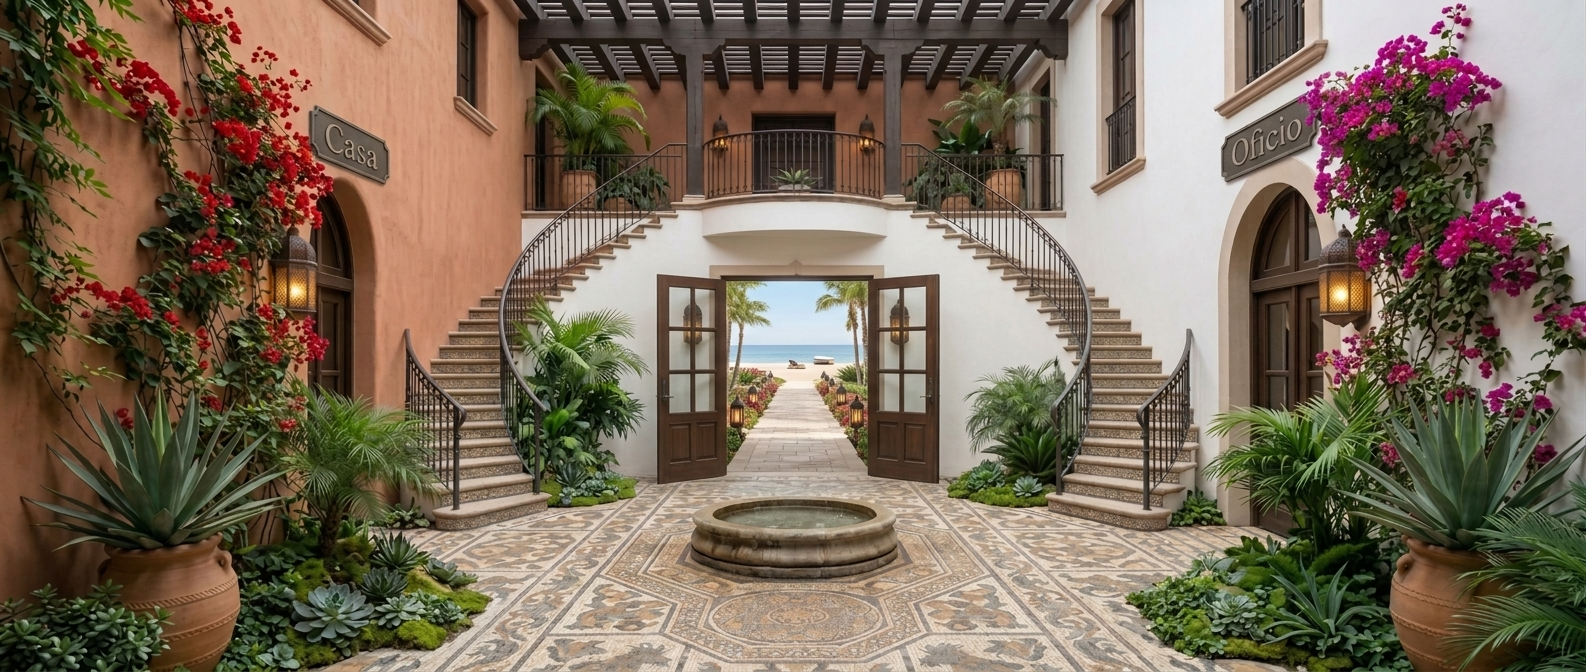
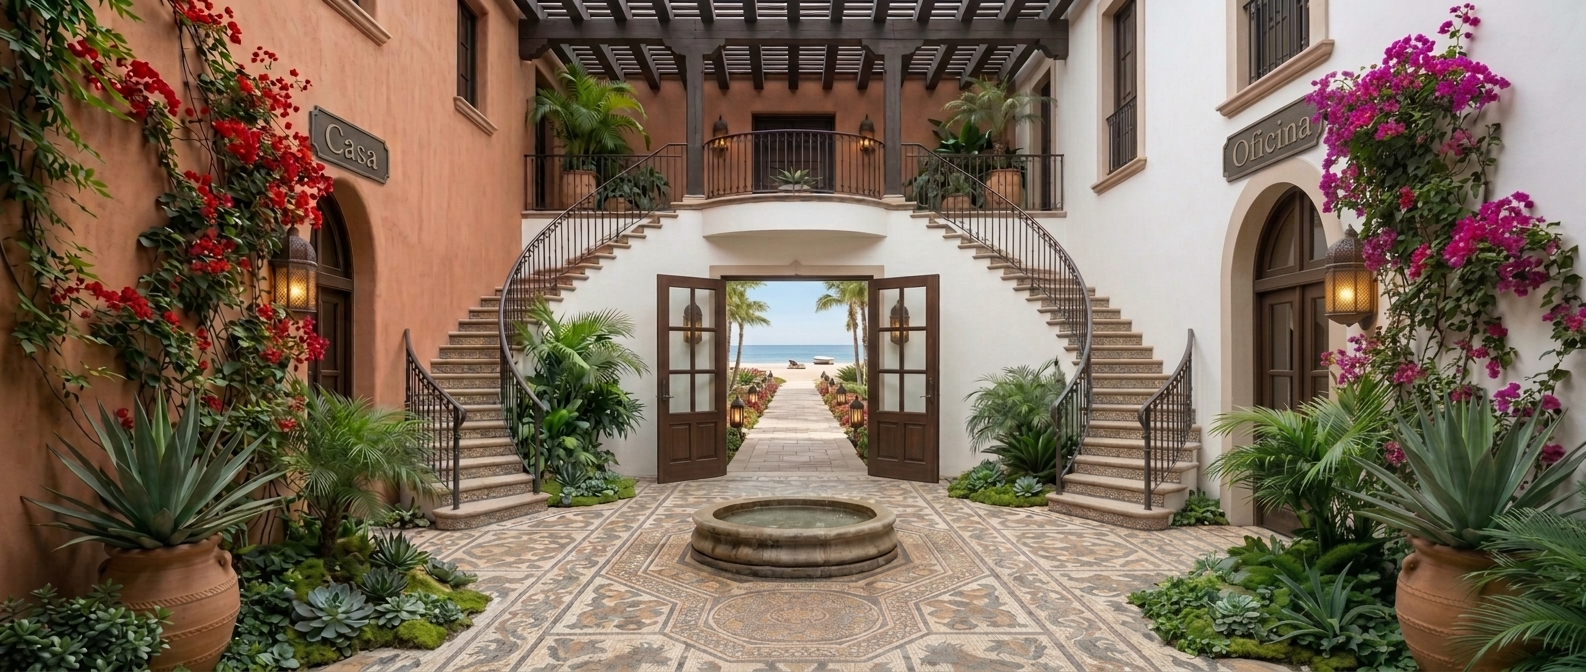
Patio: lock hotspots to the archways, drop the centre doors
- Re-pull the courtyard photo with corrected "Casa" / "Oficina" signs.
- Put the photo in an aspect-ratio .frame so overlays are positioned in
  percentages of the image itself — the two archway hotspots now stay
  pinned to the doorways at any screen size.
- Remove the centred stacked-door fallback entirely; the only controls
  are the two transparent archway hotspots with their warm hover bloom.

diff --git a/redsquatch-site/app/(auth)/login-interceptor/patio.module.css b/redsquatch-site/app/(auth)/login-interceptor/patio.module.css
@@ -1,9 +1,13 @@
 /* ═══════════════════════════════════════════════════════════════════════════
-   Patio — the post-login courtyard. One decision: Casa (left → /hs) or
-   Oficina (right → /ws). The "Casa" / "Oficina" signs are carved into the photo
-   itself, so on a wide screen the controls are just transparent hotspots over
-   the two archways, lit by a warm bloom on hover. Narrow screens can't hold
-   the whole panorama, so they fall back to two stacked labelled doors.
+   Patio — the post-login courtyard. One decision, two archways:
+   Casa (left → /hs) or Oficina (right → /ws). The signs are carved into the
+   photo, so the only controls are two transparent hotspots sitting exactly
+   over the archways, lit by a warm bloom on hover/focus.
+
+   The photo lives in `.frame`, an element with the image's exact aspect ratio
+   that is letterboxed inside the viewport. Every overlay is a child of
+   `.frame` and positioned in percentages of the *image*, so the hotspots
+   stay locked to the archways at any screen size.
    Scoped module; nothing here touches the global theme.
    ═══════════════════════════════════════════════════════════════════════════ */
 
@@ -12,200 +16,126 @@
   inset: 0;
   overflow: hidden;
   isolation: isolate;
-  background-color: #b5895f;   /* warm adobe fills any letterbox around the pano */
+  display: flex;
+  align-items: center;
+  justify-content: center;
+  background-color: #b5895f;   /* warm adobe fills the letterbox around the pano */
   font-family: Georgia, "Times New Roman", serif;
 }
 
-.backdrop {
-  position: absolute;
-  inset: 0;
-  background-image: url("/images/patio-courtyard.jpg");
-  background-repeat: no-repeat;
-  background-position: center;
-  background-size: cover;       /* mobile: fill screen (sides crop) */
-  z-index: 0;
-}
-@media (min-width: 900px) {
-  /* desktop: show the whole panorama so both archways stay in frame */
-  .backdrop { background-size: contain; }
+.frame {
+  position: relative;
+  width: 100%;
+  max-height: 100%;
+  aspect-ratio: 1586 / 672;    /* the courtyard photo's true ratio */
+  background: url("/images/patio-courtyard.jpg") center / cover no-repeat;
 }
 
-/* Warmth + legibility wash — light touch; the courtyard photo is already bright */
+/* Warmth + legibility wash — light touch; the photo is already bright */
 .warmth {
   position: absolute;
   inset: 0;
   z-index: 1;
   pointer-events: none;
   background:
-    radial-gradient(ellipse 65% 40% at 50% 88%, rgba(40, 26, 16, 0.32), transparent 72%),
-    linear-gradient(180deg, rgba(40, 28, 18, 0.16) 0%, transparent 20%, transparent 70%, rgba(30, 20, 12, 0.34) 100%);
+    radial-gradient(ellipse 60% 38% at 50% 90%, rgba(40, 26, 16, 0.3), transparent 72%),
+    linear-gradient(180deg, rgba(40, 28, 18, 0.14) 0%, transparent 22%, transparent 74%, rgba(30, 20, 12, 0.28) 100%);
 }
 
-/* Dappled light drifting through the pergola */
+/* Dappled light drifting through the pergola (top of frame) */
 .dapple {
   position: absolute;
-  inset: -20%;
+  inset: -8% -8% 40%;
   z-index: 2;
   pointer-events: none;
   mix-blend-mode: soft-light;
   background:
-    radial-gradient(circle at 20% 12%, rgba(255, 226, 160, 0.45) 0 3%, transparent 8%),
-    radial-gradient(circle at 42% 7%,  rgba(255, 226, 160, 0.35) 0 2%, transparent 7%),
-    radial-gradient(circle at 63% 15%, rgba(255, 226, 160, 0.4) 0 3%, transparent 8%),
-    radial-gradient(circle at 80% 9%,  rgba(255, 226, 160, 0.35) 0 2%, transparent 6%);
+    radial-gradient(circle at 22% 20%, rgba(255, 226, 160, 0.45) 0 3%, transparent 9%),
+    radial-gradient(circle at 44% 12%, rgba(255, 226, 160, 0.35) 0 2%, transparent 8%),
+    radial-gradient(circle at 62% 24%, rgba(255, 226, 160, 0.4) 0 3%, transparent 9%),
+    radial-gradient(circle at 80% 14%, rgba(255, 226, 160, 0.35) 0 2%, transparent 7%);
   animation: dappleDrift 26s ease-in-out infinite alternate;
 }
 @keyframes dappleDrift {
   from { transform: translate3d(0, 0, 0); }
-  to   { transform: translate3d(2.2%, 1.3%, 0); }
+  to   { transform: translate3d(2%, 1.2%, 0); }
 }
 
 /* Fountain shimmer — over the round basin, lower-centre of frame */
 .fountain {
   position: absolute;
   z-index: 3;
-  top: 80%;
+  top: 82%;
   left: 50%;
-  width: 200px;
-  height: 100px;
-  margin: -50px 0 0 -100px;
+  width: 15%;
+  height: 14%;
+  transform: translate(-50%, -50%);
   border-radius: 50%;
   pointer-events: none;
-  background: radial-gradient(ellipse at center, rgba(185, 212, 220, 0.3), transparent 66%);
+  background: radial-gradient(ellipse at center, rgba(185, 212, 220, 0.32), transparent 66%);
   mix-blend-mode: screen;
   animation: shimmer 5s ease-in-out infinite;
 }
 @keyframes shimmer {
-  0%, 100% { opacity: 0.45; transform: scale(0.98); }
-  50%      { opacity: 0.85; transform: scale(1.03); }
+  0%, 100% { opacity: 0.4; transform: translate(-50%, -50%) scale(0.97); }
+  50%      { opacity: 0.8; transform: translate(-50%, -50%) scale(1.03); }
 }
 
-/* ═══ Desktop: transparent hotspots over the two archways ══════════════════ */
-.arches { display: none; }
-
-@media (min-width: 900px) {
-  .arches { display: block; }
-
-  .arch {
-    position: absolute;
-    z-index: 5;
-    top: 51%;
-    width: 11%;
-    height: 36%;
-    transform: translate(-50%, -50%);
-    padding: 0;
-    border: none;
-    background: transparent;
-    cursor: pointer;
-    border-radius: 50% 50% 6px 6px;   /* arched, matches the openings */
-    -webkit-tap-highlight-color: transparent;
-  }
-  /* Centred on the arched doors in Court2.jpg (2.36:1 pano, shown via contain) */
-  .archCasa   { left: 14.5%; }
-  .archOficina { left: 83.2%; }
-
-  /* warm light gathering in the archway */
-  .arch::before {
-    content: "";
-    position: absolute;
-    inset: -8% -14% -4%;
-    border-radius: inherit;
-    mix-blend-mode: screen;
-    opacity: 0.16;
-    transition: opacity 0.4s ease, transform 0.4s ease;
-    pointer-events: none;
-  }
-  .archCasa::before {
-    background: radial-gradient(ellipse at 50% 62%, rgba(255, 168, 104, 0.55), transparent 66%);
-  }
-  .archOficina::before {
-    background: radial-gradient(ellipse at 50% 62%, rgba(255, 206, 150, 0.55), transparent 66%);
-  }
-  .arch:hover::before,
-  .arch:focus-visible::before { opacity: 0.82; transform: scale(1.06); }
-  .arch:active { transform: translate(-50%, -50%) scale(0.99); }
-  .archChosen::before { opacity: 0.95 !important; transform: scale(1.1) !important; }
-
-  .arch:focus-visible { outline: none; }
-  .arch:focus-visible::after {
-    content: "";
-    position: absolute;
-    inset: 0;
-    border: 1px solid rgba(255, 235, 205, 0.6);
-    box-shadow: inset 0 0 0 1px rgba(0, 0, 0, 0.35);
-    border-radius: inherit;
-    mix-blend-mode: overlay;
-    pointer-events: none;
-  }
-
-  .doors { display: none; }
-}
-
-/* ═══ Mobile: two stacked labelled doors ══════════════════════════════════ */
-.doors {
+/* ═══ The two archway hotspots ════════════════════════════════════════════ */
+.arch {
   position: absolute;
   z-index: 5;
-  left: 0;
-  right: 0;
-  top: 50%;
-  transform: translateY(-50%);
-  display: flex;
-  flex-direction: column;
-  align-items: center;
-  gap: 1.4rem;
-  padding: 0 1.5rem;
-}
-
-.door {
-  position: relative;
-  width: min(78vw, 300px);
-  padding: 1.5rem 1.25rem 1.3rem;
+  top: 49%;
+  width: 13%;
+  height: 42%;
+  transform: translate(-50%, -50%);
+  padding: 0;
+  border: none;
+  background: transparent;
   cursor: pointer;
-  color: #f5f1e8;
-  background: linear-gradient(180deg, rgba(58, 40, 26, 0.5), rgba(30, 20, 12, 0.74));
-  border: 1px solid rgba(245, 241, 232, 0.24);
-  border-radius: 100px 100px 10px 10px;
-  backdrop-filter: blur(3px);
-  text-align: center;
-  transition: transform 0.3s cubic-bezier(0.2, 0.8, 0.2, 1), border-color 0.3s ease;
-  animation: fadeUp 0.5s ease both;
+  border-radius: 46% 46% 6px 6px;   /* arched, echoes the openings */
+  -webkit-tap-highlight-color: transparent;
 }
-.door:active { transform: scale(0.985); }
-.door:focus-visible { outline: 3px solid #f3e6cf; outline-offset: 4px; }
+/* Centred on the arched doors in Court2.jpg (1586×672) */
+.archCasa    { left: 15.5%; }
+.archOficina { left: 83%; }
 
-.doorLabel { font-size: 1.5rem; font-weight: 700; letter-spacing: 0.04em; }
-.doorHint {
-  display: block;
-  margin-top: 0.3rem;
-  font-size: 0.6rem;
-  letter-spacing: 0.28em;
-  text-transform: uppercase;
-  color: rgba(245, 241, 232, 0.72);
-  font-family: Inter, system-ui, sans-serif;
-}
-
-.door::after {
+/* warm light gathering in the archway */
+.arch::before {
   content: "";
   position: absolute;
-  left: 12%;
-  right: 12%;
-  bottom: -16px;
-  height: 34px;
-  border-radius: 50%;
-  filter: blur(12px);
-  opacity: 0.7;
-  transition: opacity 0.3s ease;
+  inset: -6% -12% -3%;
+  border-radius: inherit;
+  mix-blend-mode: screen;
+  opacity: 0.14;
+  transition: opacity 0.4s ease, transform 0.4s ease;
+  pointer-events: none;
 }
-.casa::after   { background: radial-gradient(ellipse, rgba(255, 168, 104, 0.8), transparent 70%); }
-.oficina::after { background: radial-gradient(ellipse, rgba(255, 206, 150, 0.8), transparent 70%); }
+.archCasa::before {
+  background: radial-gradient(ellipse at 50% 62%, rgba(255, 168, 104, 0.55), transparent 66%);
+}
+.archOficina::before {
+  background: radial-gradient(ellipse at 50% 62%, rgba(255, 206, 150, 0.55), transparent 66%);
+}
+.arch:hover::before,
+.arch:focus-visible::before { opacity: 0.85; transform: scale(1.06); }
+.arch:active { transform: translate(-50%, -50%) scale(0.99); }
+.archChosen::before { opacity: 0.98 !important; transform: scale(1.12) !important; }
 
-.doorChosen { transform: scale(1.04); border-color: #f3e6cf; }
-.doorChosen::after { opacity: 1; }
-
-@keyframes fadeUp { from { opacity: 0; transform: translateY(16px); } to { opacity: 1; transform: translateY(0); } }
+.arch:focus-visible { outline: none; }
+.arch:focus-visible::after {
+  content: "";
+  position: absolute;
+  inset: 0;
+  border: 1px solid rgba(255, 235, 205, 0.6);
+  box-shadow: inset 0 0 0 1px rgba(0, 0, 0, 0.35);
+  border-radius: inherit;
+  mix-blend-mode: overlay;
+  pointer-events: none;
+}
 
 /* ---- Reduced motion ----------------------------------------------------- */
 @media (prefers-reduced-motion: reduce) {
-  .dapple, .fountain, .door { animation: none; }
-  .arch::before, .door { transition: none; }
+  .dapple, .fountain { animation: none; }
+  .arch::before { transition: none; }
 }

diff --git a/redsquatch-site/app/(auth)/login-interceptor/page.tsx b/redsquatch-site/app/(auth)/login-interceptor/page.tsx
@@ -5,10 +5,10 @@ import { useRouter } from 'next/navigation';
 import s from './patio.module.css';
 
 /* Patio — the post-login courtyard. One decision, two archways:
-   Casa (left)   → /hs/dashboard
+   Casa (left)    → /hs/dashboard
    Oficina (right) → /ws/dashboard
-   The signs are carved into the photo; wide screens get transparent hotspots
-   over the arches, narrow screens get two stacked labelled doors. */
+   The "Casa" / "Oficina" signs are carved into the photo; the controls are
+   transparent hotspots sitting exactly over the archways. */
 type Door = 'casa' | 'oficina';
 
 export default function PatioInterceptor() {
@@ -25,13 +25,11 @@ export default function PatioInterceptor() {
 
   return (
     <main className={s.patio}>
-      <div className={s.backdrop} />
-      <div className={s.warmth} />
-      <div className={s.dapple} aria-hidden />
-      <div className={s.fountain} aria-hidden />
+      <div className={s.frame}>
+        <div className={s.warmth} />
+        <div className={s.dapple} aria-hidden />
+        <div className={s.fountain} aria-hidden />
 
-      {/* wide screens: hotspots over the archways in the photo */}
-      <div className={s.arches}>
         <button
           className={`${s.arch} ${s.archCasa} ${chosen === 'casa' ? s.archChosen : ''}`}
           onClick={() => choose('casa')}
@@ -42,26 +40,6 @@ export default function PatioInterceptor() {
           onClick={() => choose('oficina')}
           aria-label="Oficina — enter WorkSquatch"
         />
-      </div>
-
-      {/* narrow screens: stacked labelled doors */}
-      <div className={s.doors}>
-        <button
-          className={`${s.door} ${s.casa} ${chosen === 'casa' ? s.doorChosen : ''}`}
-          onClick={() => choose('casa')}
-          aria-label="Casa — enter HomeSquatch"
-        >
-          <span className={s.doorLabel}>Casa</span>
-          <span className={s.doorHint}>{chosen === 'casa' ? 'Entrando…' : 'Personal'}</span>
-        </button>
-        <button
-          className={`${s.door} ${s.oficina} ${chosen === 'oficina' ? s.doorChosen : ''}`}
-          onClick={() => choose('oficina')}
-          aria-label="Oficina — enter WorkSquatch"
-        >
-          <span className={s.doorLabel}>Oficina</span>
-          <span className={s.doorHint}>{chosen === 'oficina' ? 'Entrando…' : 'Consulting'}</span>
-        </button>
       </div>
     </main>
   );
